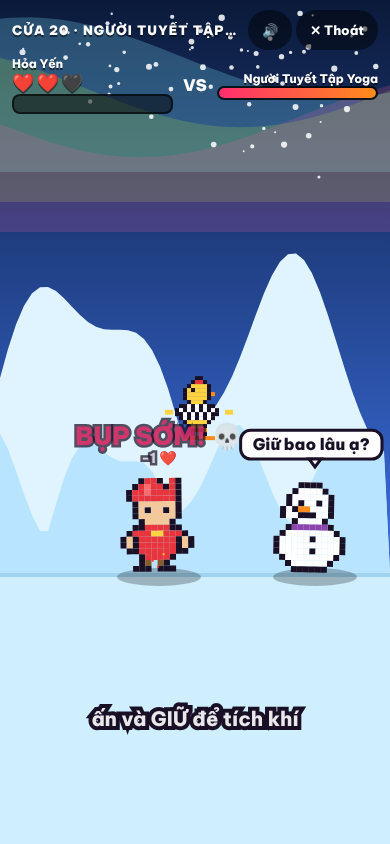
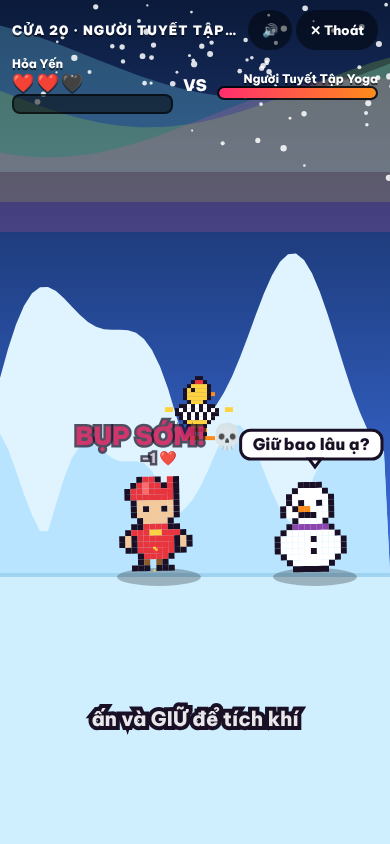
fix(fight): keep fighters inside the frame on short and landscape screens
The ground line now stays above the virtual pad (H - pad height), the
fight camera no longer sways or zooms at the edges, fighters are clamped
further from the sides (text sprites too), jumps carry their horizontal
velocity and land cleanly, jump height is lower, and the control hint
sits under the HUD instead of over the fighters. Sprites scale up a bit
on short screens.

Claude-Session: https://claude.ai/code/session_01UqXqDxYeGoWj4VXwpkBnn8

diff --git a/src/game.html b/src/game.html
@@ -254,8 +254,9 @@ body.zh{--font:'Be Vietnam Pro','PingFang SC','Hiragino Sans GB','Microsoft YaHe
   function gateName(n){ return T('gateName', { n: n, w: WORLDS[GATES[n - 1].w - 1].name }); }
   function pick(arr){ return arr[Math.floor(Math.random() * arr.length)]; }
 
+  var PAD_H = 150;   /* height of #pad incl. padding; the ground never sits under it */
   /* ---------- resize ---------- */
-  function resize(){ DPR = Math.min(2, window.devicePixelRatio || 1); W = window.innerWidth; H = window.innerHeight; cv.width = Math.floor(W * DPR); cv.height = Math.floor(H * DPR); ctx.setTransform(DPR, 0, 0, DPR, 0, 0); GY = Math.floor(H * (IMG_MODE() ? 0.76 : 0.68)); SC = Math.max(5, Math.min(11, Math.floor(Math.min(W / 64, H / 96)))); }
+  function resize(){ DPR = Math.min(2, window.devicePixelRatio || 1); W = window.innerWidth; H = window.innerHeight; cv.width = Math.floor(W * DPR); cv.height = Math.floor(H * DPR); ctx.setTransform(DPR, 0, 0, DPR, 0, 0); SC = Math.max(4, Math.min(11, Math.floor(Math.min(W / 64, H / 84)))); GY = Math.floor(H * (IMG_MODE() ? 0.76 : 0.68)); GY = Math.max(Math.floor(H * .5), Math.min(GY, H - PAD_H - SC * 2)); }   /* keep the ground above the virtual pad (short screens, landscape) */
   window.addEventListener('resize', resize); resize();
 
   /* ---------- title ---------- */
@@ -658,7 +659,7 @@ body.zh{--font:'Be Vietnam Pro','PingFang SC','Hiragino Sans GB','Microsoft YaHe
       if (!canAct(Hh, now) && !(air && Hh.st === 'jump')) continue;
       if (k === 'lt' || k === 'hv') { if (air) { if (Hh.st === 'jump') startAtk(Hh, 'air', now); } else startAtk(Hh, k === 'hv' ? (Hh.chain === 2 && now - Hh.chainT < 700 ? 'fin' : 'hv') : (Hh.chain === 1 && now - Hh.chainT < 600 ? 'lt2' : 'lt'), now); }
       else if (k === 'sp' && !air) { if (Hh.meter >= 100) startAtk(Hh, 'sup', now); else if (Hh.meter >= 50) startAtk(Hh, 'sp', now); else { AUDIO.sfx.buzzer(); fx.push({ t: now, x: Hh.x - SC * 7, y: GY - SC * 18, txt: '', sub: T('meterLow'), col: '#aab0c4' }); } }
-      else if (k === 'u' && !air) { Hh.st = 'jump'; Hh.vy = -SC * 1.55; Hh.y = -1; Hh.vx = (IN.r - IN.l) * SPD * 1.1; Hh.crouch = false; AUDIO.sfx.tapone(); }
+      else if (k === 'u' && !air) { Hh.st = 'jump'; Hh.vy = -SC * 1.4; Hh.y = -1; Hh.vx = (IN.r - IN.l) * SPD * 1.1; Hh.crouch = false; AUDIO.sfx.tapone(); }
     }
     if (Hh.st === 'jump' || Hh.st === 'atk' || Hh.st === 'hit' || Hh.st === 'down') return;
     if (Hh.y >= 0) Hh.face = E.x >= Hh.x ? 1 : -1;
@@ -679,7 +680,7 @@ body.zh{--font:'Be Vietnam Pro','PingFang SC','Hiragino Sans GB','Microsoft YaHe
     if (Hh.st === 'atk' && !Hh.feint && d < SC * 13 && Math.random() < ai.block) { ai.mode = 'block'; E.blockT = now; E.blockHeld = true; E.st = 'block'; ai.next = now + 380; return; }
     if (!inR) { var r0 = Math.random();
       if (r0 < .1) { ai.mode = 'idle'; ai.next = now + 250; }
-      else if (r0 < .1 + ai.jump && d < SC * 20 && d > SC * 11) { E.st = 'jump'; E.vy = -SC * 1.5; E.y = -1; E.vx = E.face * ai.spd * 1.3; ai.mode = 'idle'; ai.airAtk = Math.random() < .7; }
+      else if (r0 < .1 + ai.jump && d < SC * 20 && d > SC * 11) { E.st = 'jump'; E.vy = -SC * 1.4; E.y = -1; E.vx = E.face * ai.spd * 1.3; ai.mode = 'idle'; ai.airAtk = Math.random() < .7; }
       else { ai.mode = 'walk'; ai.dir = E.face; ai.next = now + 160; }
       return; }
     var r = Math.random();
@@ -689,7 +690,7 @@ body.zh{--font:'Be Vietnam Pro','PingFang SC','Hiragino Sans GB','Microsoft YaHe
     else { ai.mode = 'idle'; ai.next = now + 200; }
   }
   function aiAttack(step, now){ var E = B.E, ai = E.ai, d = step.d === '?' || !step.d ? ['L', 'R', 'U'][Math.floor(Math.random() * 3)] : step.d, feint = step.f ? true : Math.random() < ai.feint;
-    if (d === 'U' && E.y >= 0 && !feint) { E.st = 'jump'; E.vy = -SC * 1.5; E.y = -1; E.vx = E.face * ai.spd * 1.4; ai.airAtk = true; return; }
+    if (d === 'U' && E.y >= 0 && !feint) { E.st = 'jump'; E.vy = -SC * 1.4; E.y = -1; E.vx = E.face * ai.spd * 1.4; ai.airAtk = true; return; }
     var key = d === 'L' ? 'lt' : 'hv'; startAtk(E, key, now, feint); E.atk = Object.assign({}, ATK[key], { su: Math.round(ATK[key].su * ai.tel * (step.t || 1) * (key === 'lt' ? 2.6 : 1.6)), feintOf: d }); }
   function resolveHit(A, Tg, now){ var atk = A.atk; A.hitFlag = true; if (now < Tg.invUntil) return;
     var tx = Tg.x, blocking = Tg.blockHeld && (Tg.st === 'block' || Tg.st === 'idle' || Tg.st === 'walk' || Tg.st === 'crouch') && Tg.y >= 0;
@@ -725,14 +726,14 @@ body.zh{--font:'Be Vietnam Pro','PingFang SC','Hiragino Sans GB','Microsoft YaHe
           if (ph >= a.su && ph < a.su + a.ac && !F.hitFlag) { var Tg = F === Hh ? E : Hh, reach = a.rg * SC, dd = Math.abs(Tg.x - F.x), facing = (Tg.x - F.x) * F.face > 0, vert = Math.abs(Tg.y - F.y) < SC * 9 || a.key === 'air' || F.atkKey === 'air'; if (dd <= reach && facing && vert) resolveHit(F, Tg, now); }
           if (ph >= a.su + a.ac + a.re) { F.st = F.y < 0 ? 'jump' : 'idle'; F.atk = null; if (F.chain && now - F.chainT > 700) F.chain = 0; } } }
       /* jump / gravity */
-      if (F.y < 0 || F.vy) { F.y += F.vy * dt; F.vy += GRAV * dt; if (F.y >= 0) { F.y = 0; F.vy = 0; if (F.st === 'jump' || (F.st === 'atk' && F.atkKey === 'air')) { F.st = 'idle'; F.atk = null; } } }
+      if (F.y < 0 || F.vy) { F.y += F.vy * dt; F.vy += GRAV * dt; if (F.y >= 0) { F.y = 0; F.vy = 0; if (F.st === 'jump' || (F.st === 'atk' && F.atkKey === 'air')) { F.st = 'idle'; F.atk = null; F.vx = 0; } } }
       if (F === E && E.st === 'jump' && E.ai.airAtk && E.vy > -SC * .3 && E.y < -SC * 3) { E.ai.airAtk = false; startAtk(E, 'air', now); E.atk = Object.assign({}, ATK.air, { su: 60 }); }
       /* knockback / hitstun / knockdown */
-      if (F.vx && F.st !== 'walk' && F.st !== 'jump') { F.x += F.vx * dt; F.vx *= Math.pow(.82, dt); if (Math.abs(F.vx) < .05) F.vx = 0; }
+      if (F.vx && F.st !== 'walk') { F.x += F.vx * dt; if (F.y >= 0) { F.vx *= Math.pow(.82, dt); if (Math.abs(F.vx) < .05) F.vx = 0; } }
       if (F.st === 'hit' && now >= F.hitUntil) { F.st = 'idle'; }
       if (F.st === 'down' && F.y >= 0 && now >= F.downUntil) { F.st = 'idle'; F.invUntil = now + 350; }
       if (F.st === 'block' && F !== Hh && now >= F.hitUntil && !F.blockHeld) F.st = 'idle';
-      F.x = Math.max(SC * 5, Math.min(W - SC * 5, F.x));
+      F.x = Math.max(SC * 6.5, Math.min(W - SC * 6.5, F.x));
     }
     /* pushbox */
     var dx = E.x - Hh.x; if (Math.abs(dx) < MIN && Hh.y >= 0 && E.y >= 0) { var push = (MIN - Math.abs(dx)) / 2, sgn = dx >= 0 ? 1 : -1; Hh.x -= push * sgn; E.x += push * sgn; }
@@ -919,8 +920,8 @@ body.zh{--font:'Be Vietnam Pro','PingFang SC','Hiragino Sans GB','Microsoft YaHe
     if (B.fight && B.H) { hx = B.H.x - SC * 7; ex = B.E.x - SC * 7; }
     B.heroX = hx; B.enemyX = ex;
     var shake = B.shake > 0 ? (Math.random() - .5) * 12 * B.shake : 0; B.shake = Math.max(0, B.shake - .06 * dt);
-    B.zoom = B.zoom * Math.pow(.86, dt); var zf = (1 + Math.abs(B.zoom) * .035) * (IMG_MODE() ? 1.015 + Math.sin(t * .45) * .015 : 1);
-    ctx.save(); ctx.translate(W / 2, GY); ctx.scale(zf, zf); ctx.translate(-W / 2, -GY); ctx.translate(shake + (IMG_MODE() ? Math.sin(t * .3) * SC * .6 : 0), shake * .5);
+    B.zoom = B.zoom * Math.pow(.86, dt); var zf = (1 + Math.abs(B.zoom) * .035) * (IMG_MODE() && !B.fight ? 1.015 + Math.sin(t * .45) * .015 : 1);
+    ctx.save(); ctx.translate(W / 2, GY); ctx.scale(zf, zf); ctx.translate(-W / 2, -GY); ctx.translate(shake + (IMG_MODE() && !B.fight ? Math.sin(t * .3) * SC * .6 : 0), shake * .5);
     /* aura while waiting; much bigger while holding */
     var auraI = st === 'wait' ? Math.min(1, (now - B.t0) / 1200) : st === 'go' ? 1 : 0;
     if (B.holding) auraI = Math.min(1.8, 1 + (now - B.holdT) / 900);
@@ -1004,14 +1005,14 @@ body.zh{--font:'Be Vietnam Pro','PingFang SC','Hiragino Sans GB','Microsoft YaHe
     else if (st === 'count') { ctx.fillStyle = '#ffd23f'; ctx.strokeText(String(B.cntN), W / 2, H * .86); ctx.fillText(String(B.cntN), W / 2, H * .86); }
     else if (st === 'fakesig' && B.tut) { ctx.fillStyle = '#ff2e6e'; ctx.font = '900 ' + Math.round(Math.min(W, H) * .12) + 'px ' + FF(); ctx.strokeText(T('tutBig'), W / 2, H * .86); ctx.fillText(T('tutBig'), W / 2, H * .86); ctx.font = '800 ' + Math.round(Math.min(W, H) * .045) + 'px ' + FF(); ctx.fillStyle = '#fff'; ctx.strokeText(T('tutHint'), W / 2, H * .92); ctx.fillText(T('tutHint'), W / 2, H * .92); }
     else if (st === 'fakesig') { var dc = B.mech === 'reverse' ? T('cueRevFreeze') : T('cueDont'); if (B.mech === 'reverse') ctx.font = '900 ' + Math.round(Math.min(W, H) * .11) + 'px ' + FF(); ctx.fillStyle = '#ff2e6e'; ctx.strokeText(dc, W / 2, H * .86); ctx.fillText(dc, W / 2, H * .86); }
-    else if (st === 'wait' || st === 'ready') { ctx.fillStyle = 'rgba(255,255,255,.9)'; ctx.font = '800 ' + Math.round(Math.min(W, H) * .05) + 'px ' + FF(); var hint = B.fight ? (B.state === 'count' ? T('hintWait') : B.meter >= 100 ? T('meterFull') : B.meter >= 50 ? T('hintSpecial') : now - B.rT0 < 8000 && B.n <= 3 ? T('padHint') : '') : B.mech === 'hold' ? (B.holding ? T('hintHolding') : T('hintHold')) : B.mech === 'double' ? T('hintDouble') : B.mech === 'spot' ? T('hintSpot') : B.mech === 'reverse' ? T('hintRev') : B.mech === 'count' ? T('hintCount') : (gm ? T('hintGhost', { ms: gm }) : (B.holding ? T('hintBet') : T('hintWait'))); if (hint) { var hw = ctx.measureText(hint).width; if (hw > W - 24) ctx.font = '800 ' + Math.round(Math.min(W, H) * .05 * (W - 24) / hw) + 'px ' + FF(); var hy = B.fight ? GY + SC * 4.5 : H * .86; ctx.strokeText(hint, W / 2, hy); ctx.fillText(hint, W / 2, hy); } }
+    else if (st === 'wait' || st === 'ready') { ctx.fillStyle = 'rgba(255,255,255,.9)'; ctx.font = '800 ' + Math.round(Math.min(W, H) * .05) + 'px ' + FF(); var hint = B.fight ? (B.state === 'count' ? T('hintWait') : B.meter >= 100 ? T('meterFull') : B.meter >= 50 ? T('hintSpecial') : now - B.rT0 < 8000 && B.n <= 3 ? T('padHint') : '') : B.mech === 'hold' ? (B.holding ? T('hintHolding') : T('hintHold')) : B.mech === 'double' ? T('hintDouble') : B.mech === 'spot' ? T('hintSpot') : B.mech === 'reverse' ? T('hintRev') : B.mech === 'count' ? T('hintCount') : (gm ? T('hintGhost', { ms: gm }) : (B.holding ? T('hintBet') : T('hintWait'))); if (hint) { var hw = ctx.measureText(hint).width; if (hw > W - 24) ctx.font = '800 ' + Math.round(Math.min(W, H) * .05 * (W - 24) / hw) + 'px ' + FF(); var hy = B.fight ? Math.max(104, Math.round(H * .13)) : H * .86; ctx.strokeText(hint, W / 2, hy); ctx.fillText(hint, W / 2, hy); } }
     ctx.textAlign = 'left';
     if (B.flash > 0) { ctx.fillStyle = 'rgba(' + B.flashCol + ',' + (B.flash * .55) + ')'; ctx.fillRect(0, 0, W, H); B.flash -= .08 * dt; }
   }
   function drawActor(name, x, y, sc, flip, swap, a){
     var sz = spriteSize(name), w = sz.w * sc, cx = x + w / 2, im = a.key && typeof ASSETS !== 'undefined' ? ASSETS.sprite(a.key, a.pose) : null;
     var tx = cx + (a.dx || 0), ih = sc * 16, iw = im ? im.width * ih / im.height : 0;
-    if (im) tx = Math.max(6 + iw / 2, Math.min(W - 6 - iw / 2, tx));
+    if (im) tx = Math.max(6 + iw / 2, Math.min(W - 6 - iw / 2, tx)); else if (B && B.fight) tx = Math.max(4 + w / 2, Math.min(W - 4 - w / 2, tx));
     ctx.save(); ctx.translate(tx, y + (a.dy || 0)); ctx.rotate(a.rot || 0); ctx.scale((a.sx || 1) * (a.mirror ? -1 : 1), a.sy || 1);
     if (im) { var src = swap && swap.k === '#fff' ? tintImg(im, '#fff') : im; ctx.drawImage(src, -iw / 2, -ih, iw, ih); }
     else drawSprite(ctx, name, -w / 2, 0, sc, flip, swap);

diff --git a/public/game.js b/public/game.js
@@ -51,8 +51,9 @@
   function gateName(n){ return T('gateName', { n: n, w: WORLDS[GATES[n - 1].w - 1].name }); }
   function pick(arr){ return arr[Math.floor(Math.random() * arr.length)]; }
 
+  var PAD_H = 150;   /* height of #pad incl. padding; the ground never sits under it */
   /* ---------- resize ---------- */
-  function resize(){ DPR = Math.min(2, window.devicePixelRatio || 1); W = window.innerWidth; H = window.innerHeight; cv.width = Math.floor(W * DPR); cv.height = Math.floor(H * DPR); ctx.setTransform(DPR, 0, 0, DPR, 0, 0); GY = Math.floor(H * (IMG_MODE() ? 0.76 : 0.68)); SC = Math.max(5, Math.min(11, Math.floor(Math.min(W / 64, H / 96)))); }
+  function resize(){ DPR = Math.min(2, window.devicePixelRatio || 1); W = window.innerWidth; H = window.innerHeight; cv.width = Math.floor(W * DPR); cv.height = Math.floor(H * DPR); ctx.setTransform(DPR, 0, 0, DPR, 0, 0); SC = Math.max(4, Math.min(11, Math.floor(Math.min(W / 64, H / 84)))); GY = Math.floor(H * (IMG_MODE() ? 0.76 : 0.68)); GY = Math.max(Math.floor(H * .5), Math.min(GY, H - PAD_H - SC * 2)); }   /* keep the ground above the virtual pad (short screens, landscape) */
   window.addEventListener('resize', resize); resize();
 
   /* ---------- title ---------- */
@@ -455,7 +456,7 @@
       if (!canAct(Hh, now) && !(air && Hh.st === 'jump')) continue;
       if (k === 'lt' || k === 'hv') { if (air) { if (Hh.st === 'jump') startAtk(Hh, 'air', now); } else startAtk(Hh, k === 'hv' ? (Hh.chain === 2 && now - Hh.chainT < 700 ? 'fin' : 'hv') : (Hh.chain === 1 && now - Hh.chainT < 600 ? 'lt2' : 'lt'), now); }
       else if (k === 'sp' && !air) { if (Hh.meter >= 100) startAtk(Hh, 'sup', now); else if (Hh.meter >= 50) startAtk(Hh, 'sp', now); else { AUDIO.sfx.buzzer(); fx.push({ t: now, x: Hh.x - SC * 7, y: GY - SC * 18, txt: '', sub: T('meterLow'), col: '#aab0c4' }); } }
-      else if (k === 'u' && !air) { Hh.st = 'jump'; Hh.vy = -SC * 1.55; Hh.y = -1; Hh.vx = (IN.r - IN.l) * SPD * 1.1; Hh.crouch = false; AUDIO.sfx.tapone(); }
+      else if (k === 'u' && !air) { Hh.st = 'jump'; Hh.vy = -SC * 1.4; Hh.y = -1; Hh.vx = (IN.r - IN.l) * SPD * 1.1; Hh.crouch = false; AUDIO.sfx.tapone(); }
     }
     if (Hh.st === 'jump' || Hh.st === 'atk' || Hh.st === 'hit' || Hh.st === 'down') return;
     if (Hh.y >= 0) Hh.face = E.x >= Hh.x ? 1 : -1;
@@ -476,7 +477,7 @@
     if (Hh.st === 'atk' && !Hh.feint && d < SC * 13 && Math.random() < ai.block) { ai.mode = 'block'; E.blockT = now; E.blockHeld = true; E.st = 'block'; ai.next = now + 380; return; }
     if (!inR) { var r0 = Math.random();
       if (r0 < .1) { ai.mode = 'idle'; ai.next = now + 250; }
-      else if (r0 < .1 + ai.jump && d < SC * 20 && d > SC * 11) { E.st = 'jump'; E.vy = -SC * 1.5; E.y = -1; E.vx = E.face * ai.spd * 1.3; ai.mode = 'idle'; ai.airAtk = Math.random() < .7; }
+      else if (r0 < .1 + ai.jump && d < SC * 20 && d > SC * 11) { E.st = 'jump'; E.vy = -SC * 1.4; E.y = -1; E.vx = E.face * ai.spd * 1.3; ai.mode = 'idle'; ai.airAtk = Math.random() < .7; }
       else { ai.mode = 'walk'; ai.dir = E.face; ai.next = now + 160; }
       return; }
     var r = Math.random();
@@ -486,7 +487,7 @@
     else { ai.mode = 'idle'; ai.next = now + 200; }
   }
   function aiAttack(step, now){ var E = B.E, ai = E.ai, d = step.d === '?' || !step.d ? ['L', 'R', 'U'][Math.floor(Math.random() * 3)] : step.d, feint = step.f ? true : Math.random() < ai.feint;
-    if (d === 'U' && E.y >= 0 && !feint) { E.st = 'jump'; E.vy = -SC * 1.5; E.y = -1; E.vx = E.face * ai.spd * 1.4; ai.airAtk = true; return; }
+    if (d === 'U' && E.y >= 0 && !feint) { E.st = 'jump'; E.vy = -SC * 1.4; E.y = -1; E.vx = E.face * ai.spd * 1.4; ai.airAtk = true; return; }
     var key = d === 'L' ? 'lt' : 'hv'; startAtk(E, key, now, feint); E.atk = Object.assign({}, ATK[key], { su: Math.round(ATK[key].su * ai.tel * (step.t || 1) * (key === 'lt' ? 2.6 : 1.6)), feintOf: d }); }
   function resolveHit(A, Tg, now){ var atk = A.atk; A.hitFlag = true; if (now < Tg.invUntil) return;
     var tx = Tg.x, blocking = Tg.blockHeld && (Tg.st === 'block' || Tg.st === 'idle' || Tg.st === 'walk' || Tg.st === 'crouch') && Tg.y >= 0;
@@ -522,14 +523,14 @@
           if (ph >= a.su && ph < a.su + a.ac && !F.hitFlag) { var Tg = F === Hh ? E : Hh, reach = a.rg * SC, dd = Math.abs(Tg.x - F.x), facing = (Tg.x - F.x) * F.face > 0, vert = Math.abs(Tg.y - F.y) < SC * 9 || a.key === 'air' || F.atkKey === 'air'; if (dd <= reach && facing && vert) resolveHit(F, Tg, now); }
           if (ph >= a.su + a.ac + a.re) { F.st = F.y < 0 ? 'jump' : 'idle'; F.atk = null; if (F.chain && now - F.chainT > 700) F.chain = 0; } } }
       /* jump / gravity */
-      if (F.y < 0 || F.vy) { F.y += F.vy * dt; F.vy += GRAV * dt; if (F.y >= 0) { F.y = 0; F.vy = 0; if (F.st === 'jump' || (F.st === 'atk' && F.atkKey === 'air')) { F.st = 'idle'; F.atk = null; } } }
+      if (F.y < 0 || F.vy) { F.y += F.vy * dt; F.vy += GRAV * dt; if (F.y >= 0) { F.y = 0; F.vy = 0; if (F.st === 'jump' || (F.st === 'atk' && F.atkKey === 'air')) { F.st = 'idle'; F.atk = null; F.vx = 0; } } }
       if (F === E && E.st === 'jump' && E.ai.airAtk && E.vy > -SC * .3 && E.y < -SC * 3) { E.ai.airAtk = false; startAtk(E, 'air', now); E.atk = Object.assign({}, ATK.air, { su: 60 }); }
       /* knockback / hitstun / knockdown */
-      if (F.vx && F.st !== 'walk' && F.st !== 'jump') { F.x += F.vx * dt; F.vx *= Math.pow(.82, dt); if (Math.abs(F.vx) < .05) F.vx = 0; }
+      if (F.vx && F.st !== 'walk') { F.x += F.vx * dt; if (F.y >= 0) { F.vx *= Math.pow(.82, dt); if (Math.abs(F.vx) < .05) F.vx = 0; } }
       if (F.st === 'hit' && now >= F.hitUntil) { F.st = 'idle'; }
       if (F.st === 'down' && F.y >= 0 && now >= F.downUntil) { F.st = 'idle'; F.invUntil = now + 350; }
       if (F.st === 'block' && F !== Hh && now >= F.hitUntil && !F.blockHeld) F.st = 'idle';
-      F.x = Math.max(SC * 5, Math.min(W - SC * 5, F.x));
+      F.x = Math.max(SC * 6.5, Math.min(W - SC * 6.5, F.x));
     }
     /* pushbox */
     var dx = E.x - Hh.x; if (Math.abs(dx) < MIN && Hh.y >= 0 && E.y >= 0) { var push = (MIN - Math.abs(dx)) / 2, sgn = dx >= 0 ? 1 : -1; Hh.x -= push * sgn; E.x += push * sgn; }
@@ -716,8 +717,8 @@
     if (B.fight && B.H) { hx = B.H.x - SC * 7; ex = B.E.x - SC * 7; }
     B.heroX = hx; B.enemyX = ex;
     var shake = B.shake > 0 ? (Math.random() - .5) * 12 * B.shake : 0; B.shake = Math.max(0, B.shake - .06 * dt);
-    B.zoom = B.zoom * Math.pow(.86, dt); var zf = (1 + Math.abs(B.zoom) * .035) * (IMG_MODE() ? 1.015 + Math.sin(t * .45) * .015 : 1);
-    ctx.save(); ctx.translate(W / 2, GY); ctx.scale(zf, zf); ctx.translate(-W / 2, -GY); ctx.translate(shake + (IMG_MODE() ? Math.sin(t * .3) * SC * .6 : 0), shake * .5);
+    B.zoom = B.zoom * Math.pow(.86, dt); var zf = (1 + Math.abs(B.zoom) * .035) * (IMG_MODE() && !B.fight ? 1.015 + Math.sin(t * .45) * .015 : 1);
+    ctx.save(); ctx.translate(W / 2, GY); ctx.scale(zf, zf); ctx.translate(-W / 2, -GY); ctx.translate(shake + (IMG_MODE() && !B.fight ? Math.sin(t * .3) * SC * .6 : 0), shake * .5);
     /* aura while waiting; much bigger while holding */
     var auraI = st === 'wait' ? Math.min(1, (now - B.t0) / 1200) : st === 'go' ? 1 : 0;
     if (B.holding) auraI = Math.min(1.8, 1 + (now - B.holdT) / 900);
@@ -801,14 +802,14 @@
     else if (st === 'count') { ctx.fillStyle = '#ffd23f'; ctx.strokeText(String(B.cntN), W / 2, H * .86); ctx.fillText(String(B.cntN), W / 2, H * .86); }
     else if (st === 'fakesig' && B.tut) { ctx.fillStyle = '#ff2e6e'; ctx.font = '900 ' + Math.round(Math.min(W, H) * .12) + 'px ' + FF(); ctx.strokeText(T('tutBig'), W / 2, H * .86); ctx.fillText(T('tutBig'), W / 2, H * .86); ctx.font = '800 ' + Math.round(Math.min(W, H) * .045) + 'px ' + FF(); ctx.fillStyle = '#fff'; ctx.strokeText(T('tutHint'), W / 2, H * .92); ctx.fillText(T('tutHint'), W / 2, H * .92); }
     else if (st === 'fakesig') { var dc = B.mech === 'reverse' ? T('cueRevFreeze') : T('cueDont'); if (B.mech === 'reverse') ctx.font = '900 ' + Math.round(Math.min(W, H) * .11) + 'px ' + FF(); ctx.fillStyle = '#ff2e6e'; ctx.strokeText(dc, W / 2, H * .86); ctx.fillText(dc, W / 2, H * .86); }
-    else if (st === 'wait' || st === 'ready') { ctx.fillStyle = 'rgba(255,255,255,.9)'; ctx.font = '800 ' + Math.round(Math.min(W, H) * .05) + 'px ' + FF(); var hint = B.fight ? (B.state === 'count' ? T('hintWait') : B.meter >= 100 ? T('meterFull') : B.meter >= 50 ? T('hintSpecial') : now - B.rT0 < 8000 && B.n <= 3 ? T('padHint') : '') : B.mech === 'hold' ? (B.holding ? T('hintHolding') : T('hintHold')) : B.mech === 'double' ? T('hintDouble') : B.mech === 'spot' ? T('hintSpot') : B.mech === 'reverse' ? T('hintRev') : B.mech === 'count' ? T('hintCount') : (gm ? T('hintGhost', { ms: gm }) : (B.holding ? T('hintBet') : T('hintWait'))); if (hint) { var hw = ctx.measureText(hint).width; if (hw > W - 24) ctx.font = '800 ' + Math.round(Math.min(W, H) * .05 * (W - 24) / hw) + 'px ' + FF(); var hy = B.fight ? GY + SC * 4.5 : H * .86; ctx.strokeText(hint, W / 2, hy); ctx.fillText(hint, W / 2, hy); } }
+    else if (st === 'wait' || st === 'ready') { ctx.fillStyle = 'rgba(255,255,255,.9)'; ctx.font = '800 ' + Math.round(Math.min(W, H) * .05) + 'px ' + FF(); var hint = B.fight ? (B.state === 'count' ? T('hintWait') : B.meter >= 100 ? T('meterFull') : B.meter >= 50 ? T('hintSpecial') : now - B.rT0 < 8000 && B.n <= 3 ? T('padHint') : '') : B.mech === 'hold' ? (B.holding ? T('hintHolding') : T('hintHold')) : B.mech === 'double' ? T('hintDouble') : B.mech === 'spot' ? T('hintSpot') : B.mech === 'reverse' ? T('hintRev') : B.mech === 'count' ? T('hintCount') : (gm ? T('hintGhost', { ms: gm }) : (B.holding ? T('hintBet') : T('hintWait'))); if (hint) { var hw = ctx.measureText(hint).width; if (hw > W - 24) ctx.font = '800 ' + Math.round(Math.min(W, H) * .05 * (W - 24) / hw) + 'px ' + FF(); var hy = B.fight ? Math.max(104, Math.round(H * .13)) : H * .86; ctx.strokeText(hint, W / 2, hy); ctx.fillText(hint, W / 2, hy); } }
     ctx.textAlign = 'left';
     if (B.flash > 0) { ctx.fillStyle = 'rgba(' + B.flashCol + ',' + (B.flash * .55) + ')'; ctx.fillRect(0, 0, W, H); B.flash -= .08 * dt; }
   }
   function drawActor(name, x, y, sc, flip, swap, a){
     var sz = spriteSize(name), w = sz.w * sc, cx = x + w / 2, im = a.key && typeof ASSETS !== 'undefined' ? ASSETS.sprite(a.key, a.pose) : null;
     var tx = cx + (a.dx || 0), ih = sc * 16, iw = im ? im.width * ih / im.height : 0;
-    if (im) tx = Math.max(6 + iw / 2, Math.min(W - 6 - iw / 2, tx));
+    if (im) tx = Math.max(6 + iw / 2, Math.min(W - 6 - iw / 2, tx)); else if (B && B.fight) tx = Math.max(4 + w / 2, Math.min(W - 4 - w / 2, tx));
     ctx.save(); ctx.translate(tx, y + (a.dy || 0)); ctx.rotate(a.rot || 0); ctx.scale((a.sx || 1) * (a.mirror ? -1 : 1), a.sy || 1);
     if (im) { var src = swap && swap.k === '#fff' ? tintImg(im, '#fff') : im; ctx.drawImage(src, -iw / 2, -ih, iw, ih); }
     else drawSprite(ctx, name, -w / 2, 0, sc, flip, swap);

diff --git a/public/preview/game.js b/public/preview/game.js
@@ -51,8 +51,9 @@
   function gateName(n){ return T('gateName', { n: n, w: WORLDS[GATES[n - 1].w - 1].name }); }
   function pick(arr){ return arr[Math.floor(Math.random() * arr.length)]; }
 
+  var PAD_H = 150;   /* height of #pad incl. padding; the ground never sits under it */
   /* ---------- resize ---------- */
-  function resize(){ DPR = Math.min(2, window.devicePixelRatio || 1); W = window.innerWidth; H = window.innerHeight; cv.width = Math.floor(W * DPR); cv.height = Math.floor(H * DPR); ctx.setTransform(DPR, 0, 0, DPR, 0, 0); GY = Math.floor(H * (IMG_MODE() ? 0.76 : 0.68)); SC = Math.max(5, Math.min(11, Math.floor(Math.min(W / 64, H / 96)))); }
+  function resize(){ DPR = Math.min(2, window.devicePixelRatio || 1); W = window.innerWidth; H = window.innerHeight; cv.width = Math.floor(W * DPR); cv.height = Math.floor(H * DPR); ctx.setTransform(DPR, 0, 0, DPR, 0, 0); SC = Math.max(4, Math.min(11, Math.floor(Math.min(W / 64, H / 84)))); GY = Math.floor(H * (IMG_MODE() ? 0.76 : 0.68)); GY = Math.max(Math.floor(H * .5), Math.min(GY, H - PAD_H - SC * 2)); }   /* keep the ground above the virtual pad (short screens, landscape) */
   window.addEventListener('resize', resize); resize();
 
   /* ---------- title ---------- */
@@ -455,7 +456,7 @@
       if (!canAct(Hh, now) && !(air && Hh.st === 'jump')) continue;
       if (k === 'lt' || k === 'hv') { if (air) { if (Hh.st === 'jump') startAtk(Hh, 'air', now); } else startAtk(Hh, k === 'hv' ? (Hh.chain === 2 && now - Hh.chainT < 700 ? 'fin' : 'hv') : (Hh.chain === 1 && now - Hh.chainT < 600 ? 'lt2' : 'lt'), now); }
       else if (k === 'sp' && !air) { if (Hh.meter >= 100) startAtk(Hh, 'sup', now); else if (Hh.meter >= 50) startAtk(Hh, 'sp', now); else { AUDIO.sfx.buzzer(); fx.push({ t: now, x: Hh.x - SC * 7, y: GY - SC * 18, txt: '', sub: T('meterLow'), col: '#aab0c4' }); } }
-      else if (k === 'u' && !air) { Hh.st = 'jump'; Hh.vy = -SC * 1.55; Hh.y = -1; Hh.vx = (IN.r - IN.l) * SPD * 1.1; Hh.crouch = false; AUDIO.sfx.tapone(); }
+      else if (k === 'u' && !air) { Hh.st = 'jump'; Hh.vy = -SC * 1.4; Hh.y = -1; Hh.vx = (IN.r - IN.l) * SPD * 1.1; Hh.crouch = false; AUDIO.sfx.tapone(); }
     }
     if (Hh.st === 'jump' || Hh.st === 'atk' || Hh.st === 'hit' || Hh.st === 'down') return;
     if (Hh.y >= 0) Hh.face = E.x >= Hh.x ? 1 : -1;
@@ -476,7 +477,7 @@
     if (Hh.st === 'atk' && !Hh.feint && d < SC * 13 && Math.random() < ai.block) { ai.mode = 'block'; E.blockT = now; E.blockHeld = true; E.st = 'block'; ai.next = now + 380; return; }
     if (!inR) { var r0 = Math.random();
       if (r0 < .1) { ai.mode = 'idle'; ai.next = now + 250; }
-      else if (r0 < .1 + ai.jump && d < SC * 20 && d > SC * 11) { E.st = 'jump'; E.vy = -SC * 1.5; E.y = -1; E.vx = E.face * ai.spd * 1.3; ai.mode = 'idle'; ai.airAtk = Math.random() < .7; }
+      else if (r0 < .1 + ai.jump && d < SC * 20 && d > SC * 11) { E.st = 'jump'; E.vy = -SC * 1.4; E.y = -1; E.vx = E.face * ai.spd * 1.3; ai.mode = 'idle'; ai.airAtk = Math.random() < .7; }
       else { ai.mode = 'walk'; ai.dir = E.face; ai.next = now + 160; }
       return; }
     var r = Math.random();
@@ -486,7 +487,7 @@
     else { ai.mode = 'idle'; ai.next = now + 200; }
   }
   function aiAttack(step, now){ var E = B.E, ai = E.ai, d = step.d === '?' || !step.d ? ['L', 'R', 'U'][Math.floor(Math.random() * 3)] : step.d, feint = step.f ? true : Math.random() < ai.feint;
-    if (d === 'U' && E.y >= 0 && !feint) { E.st = 'jump'; E.vy = -SC * 1.5; E.y = -1; E.vx = E.face * ai.spd * 1.4; ai.airAtk = true; return; }
+    if (d === 'U' && E.y >= 0 && !feint) { E.st = 'jump'; E.vy = -SC * 1.4; E.y = -1; E.vx = E.face * ai.spd * 1.4; ai.airAtk = true; return; }
     var key = d === 'L' ? 'lt' : 'hv'; startAtk(E, key, now, feint); E.atk = Object.assign({}, ATK[key], { su: Math.round(ATK[key].su * ai.tel * (step.t || 1) * (key === 'lt' ? 2.6 : 1.6)), feintOf: d }); }
   function resolveHit(A, Tg, now){ var atk = A.atk; A.hitFlag = true; if (now < Tg.invUntil) return;
     var tx = Tg.x, blocking = Tg.blockHeld && (Tg.st === 'block' || Tg.st === 'idle' || Tg.st === 'walk' || Tg.st === 'crouch') && Tg.y >= 0;
@@ -522,14 +523,14 @@
           if (ph >= a.su && ph < a.su + a.ac && !F.hitFlag) { var Tg = F === Hh ? E : Hh, reach = a.rg * SC, dd = Math.abs(Tg.x - F.x), facing = (Tg.x - F.x) * F.face > 0, vert = Math.abs(Tg.y - F.y) < SC * 9 || a.key === 'air' || F.atkKey === 'air'; if (dd <= reach && facing && vert) resolveHit(F, Tg, now); }
           if (ph >= a.su + a.ac + a.re) { F.st = F.y < 0 ? 'jump' : 'idle'; F.atk = null; if (F.chain && now - F.chainT > 700) F.chain = 0; } } }
       /* jump / gravity */
-      if (F.y < 0 || F.vy) { F.y += F.vy * dt; F.vy += GRAV * dt; if (F.y >= 0) { F.y = 0; F.vy = 0; if (F.st === 'jump' || (F.st === 'atk' && F.atkKey === 'air')) { F.st = 'idle'; F.atk = null; } } }
+      if (F.y < 0 || F.vy) { F.y += F.vy * dt; F.vy += GRAV * dt; if (F.y >= 0) { F.y = 0; F.vy = 0; if (F.st === 'jump' || (F.st === 'atk' && F.atkKey === 'air')) { F.st = 'idle'; F.atk = null; F.vx = 0; } } }
       if (F === E && E.st === 'jump' && E.ai.airAtk && E.vy > -SC * .3 && E.y < -SC * 3) { E.ai.airAtk = false; startAtk(E, 'air', now); E.atk = Object.assign({}, ATK.air, { su: 60 }); }
       /* knockback / hitstun / knockdown */
-      if (F.vx && F.st !== 'walk' && F.st !== 'jump') { F.x += F.vx * dt; F.vx *= Math.pow(.82, dt); if (Math.abs(F.vx) < .05) F.vx = 0; }
+      if (F.vx && F.st !== 'walk') { F.x += F.vx * dt; if (F.y >= 0) { F.vx *= Math.pow(.82, dt); if (Math.abs(F.vx) < .05) F.vx = 0; } }
       if (F.st === 'hit' && now >= F.hitUntil) { F.st = 'idle'; }
       if (F.st === 'down' && F.y >= 0 && now >= F.downUntil) { F.st = 'idle'; F.invUntil = now + 350; }
       if (F.st === 'block' && F !== Hh && now >= F.hitUntil && !F.blockHeld) F.st = 'idle';
-      F.x = Math.max(SC * 5, Math.min(W - SC * 5, F.x));
+      F.x = Math.max(SC * 6.5, Math.min(W - SC * 6.5, F.x));
     }
     /* pushbox */
     var dx = E.x - Hh.x; if (Math.abs(dx) < MIN && Hh.y >= 0 && E.y >= 0) { var push = (MIN - Math.abs(dx)) / 2, sgn = dx >= 0 ? 1 : -1; Hh.x -= push * sgn; E.x += push * sgn; }
@@ -716,8 +717,8 @@
     if (B.fight && B.H) { hx = B.H.x - SC * 7; ex = B.E.x - SC * 7; }
     B.heroX = hx; B.enemyX = ex;
     var shake = B.shake > 0 ? (Math.random() - .5) * 12 * B.shake : 0; B.shake = Math.max(0, B.shake - .06 * dt);
-    B.zoom = B.zoom * Math.pow(.86, dt); var zf = (1 + Math.abs(B.zoom) * .035) * (IMG_MODE() ? 1.015 + Math.sin(t * .45) * .015 : 1);
-    ctx.save(); ctx.translate(W / 2, GY); ctx.scale(zf, zf); ctx.translate(-W / 2, -GY); ctx.translate(shake + (IMG_MODE() ? Math.sin(t * .3) * SC * .6 : 0), shake * .5);
+    B.zoom = B.zoom * Math.pow(.86, dt); var zf = (1 + Math.abs(B.zoom) * .035) * (IMG_MODE() && !B.fight ? 1.015 + Math.sin(t * .45) * .015 : 1);
+    ctx.save(); ctx.translate(W / 2, GY); ctx.scale(zf, zf); ctx.translate(-W / 2, -GY); ctx.translate(shake + (IMG_MODE() && !B.fight ? Math.sin(t * .3) * SC * .6 : 0), shake * .5);
     /* aura while waiting; much bigger while holding */
     var auraI = st === 'wait' ? Math.min(1, (now - B.t0) / 1200) : st === 'go' ? 1 : 0;
     if (B.holding) auraI = Math.min(1.8, 1 + (now - B.holdT) / 900);
@@ -801,14 +802,14 @@
     else if (st === 'count') { ctx.fillStyle = '#ffd23f'; ctx.strokeText(String(B.cntN), W / 2, H * .86); ctx.fillText(String(B.cntN), W / 2, H * .86); }
     else if (st === 'fakesig' && B.tut) { ctx.fillStyle = '#ff2e6e'; ctx.font = '900 ' + Math.round(Math.min(W, H) * .12) + 'px ' + FF(); ctx.strokeText(T('tutBig'), W / 2, H * .86); ctx.fillText(T('tutBig'), W / 2, H * .86); ctx.font = '800 ' + Math.round(Math.min(W, H) * .045) + 'px ' + FF(); ctx.fillStyle = '#fff'; ctx.strokeText(T('tutHint'), W / 2, H * .92); ctx.fillText(T('tutHint'), W / 2, H * .92); }
     else if (st === 'fakesig') { var dc = B.mech === 'reverse' ? T('cueRevFreeze') : T('cueDont'); if (B.mech === 'reverse') ctx.font = '900 ' + Math.round(Math.min(W, H) * .11) + 'px ' + FF(); ctx.fillStyle = '#ff2e6e'; ctx.strokeText(dc, W / 2, H * .86); ctx.fillText(dc, W / 2, H * .86); }
-    else if (st === 'wait' || st === 'ready') { ctx.fillStyle = 'rgba(255,255,255,.9)'; ctx.font = '800 ' + Math.round(Math.min(W, H) * .05) + 'px ' + FF(); var hint = B.fight ? (B.state === 'count' ? T('hintWait') : B.meter >= 100 ? T('meterFull') : B.meter >= 50 ? T('hintSpecial') : now - B.rT0 < 8000 && B.n <= 3 ? T('padHint') : '') : B.mech === 'hold' ? (B.holding ? T('hintHolding') : T('hintHold')) : B.mech === 'double' ? T('hintDouble') : B.mech === 'spot' ? T('hintSpot') : B.mech === 'reverse' ? T('hintRev') : B.mech === 'count' ? T('hintCount') : (gm ? T('hintGhost', { ms: gm }) : (B.holding ? T('hintBet') : T('hintWait'))); if (hint) { var hw = ctx.measureText(hint).width; if (hw > W - 24) ctx.font = '800 ' + Math.round(Math.min(W, H) * .05 * (W - 24) / hw) + 'px ' + FF(); var hy = B.fight ? GY + SC * 4.5 : H * .86; ctx.strokeText(hint, W / 2, hy); ctx.fillText(hint, W / 2, hy); } }
+    else if (st === 'wait' || st === 'ready') { ctx.fillStyle = 'rgba(255,255,255,.9)'; ctx.font = '800 ' + Math.round(Math.min(W, H) * .05) + 'px ' + FF(); var hint = B.fight ? (B.state === 'count' ? T('hintWait') : B.meter >= 100 ? T('meterFull') : B.meter >= 50 ? T('hintSpecial') : now - B.rT0 < 8000 && B.n <= 3 ? T('padHint') : '') : B.mech === 'hold' ? (B.holding ? T('hintHolding') : T('hintHold')) : B.mech === 'double' ? T('hintDouble') : B.mech === 'spot' ? T('hintSpot') : B.mech === 'reverse' ? T('hintRev') : B.mech === 'count' ? T('hintCount') : (gm ? T('hintGhost', { ms: gm }) : (B.holding ? T('hintBet') : T('hintWait'))); if (hint) { var hw = ctx.measureText(hint).width; if (hw > W - 24) ctx.font = '800 ' + Math.round(Math.min(W, H) * .05 * (W - 24) / hw) + 'px ' + FF(); var hy = B.fight ? Math.max(104, Math.round(H * .13)) : H * .86; ctx.strokeText(hint, W / 2, hy); ctx.fillText(hint, W / 2, hy); } }
     ctx.textAlign = 'left';
     if (B.flash > 0) { ctx.fillStyle = 'rgba(' + B.flashCol + ',' + (B.flash * .55) + ')'; ctx.fillRect(0, 0, W, H); B.flash -= .08 * dt; }
   }
   function drawActor(name, x, y, sc, flip, swap, a){
     var sz = spriteSize(name), w = sz.w * sc, cx = x + w / 2, im = a.key && typeof ASSETS !== 'undefined' ? ASSETS.sprite(a.key, a.pose) : null;
     var tx = cx + (a.dx || 0), ih = sc * 16, iw = im ? im.width * ih / im.height : 0;
-    if (im) tx = Math.max(6 + iw / 2, Math.min(W - 6 - iw / 2, tx));
+    if (im) tx = Math.max(6 + iw / 2, Math.min(W - 6 - iw / 2, tx)); else if (B && B.fight) tx = Math.max(4 + w / 2, Math.min(W - 4 - w / 2, tx));
     ctx.save(); ctx.translate(tx, y + (a.dy || 0)); ctx.rotate(a.rot || 0); ctx.scale((a.sx || 1) * (a.mirror ? -1 : 1), a.sy || 1);
     if (im) { var src = swap && swap.k === '#fff' ? tintImg(im, '#fff') : im; ctx.drawImage(src, -iw / 2, -ih, iw, ih); }
     else drawSprite(ctx, name, -w / 2, 0, sc, flip, swap);

diff --git a/public/preview/config.js b/public/preview/config.js
@@ -1,1 +1,1 @@
-var CONFIG = {"analyticsUrl":"https://iyabxhznvcmgbpjzzyta.supabase.co","analyticsKey":"eyJhbGciOiJIUzI1NiIsInR5cCI6IkpXVCJ9.eyJpc3MiOiJzdXBhYmFzZSIsInJlZiI6Iml5YWJ4aHpudmNtZ2Jwanp6eXRhIiwicm9sZSI6ImFub24iLCJpYXQiOjE3NjYxMjc0NDUsImV4cCI6MjA4MTcwMzQ0NX0.nvWnfif5VzxEZCpEwCgSeJrCLGzbTSzFFzeMAny6eUk","portal":"","version":"3b66ccf","lang":"","img":["s/bangnhi-attack","s/bangnhi-hurt","s/bangnhi-idle","s/bangvuong-attack","s/bangvuong-hurt","s/bangvuong-idle","s/canhcut-attack","s/canhcut-hurt","s/canhcut-idle","s/cao-attack","s/cao-hurt","s/cao-idle","s/gabip-idle","s/ganuong-attack","s/ganuong-hurt","s/ganuong-idle","s/hoalong-attack","s/hoalong-hurt","s/hoalong-idle","s/hoayen-attack","s/hoayen-hurt","s/hoayen-idle","s/khilua-attack","s/khilua-hurt","s/khilua-idle","s/linhco-attack","s/linhco-hurt","s/linhco-idle","s/linhdem-attack","s/linhdem-hurt","s/linhdem-idle","s/lytruong-attack","s/lytruong-hurt","s/lytruong-idle","s/nguoituyet-attack","s/nguoituyet-hurt","s/nguoituyet-idle","s/rua-attack","s/rua-hurt","s/rua-idle","s/thachlao-attack","s/thachlao-hurt","s/thachlao-idle","s/thienbinh-attack","s/thienbinh-hurt","s/thienbinh-idle","s/tibup-attack","s/tibup-hurt","s/tibup-idle","s/tiennu-attack","s/tiennu-hurt","s/tiennu-idle","s/traului-attack","s/traului-hurt","s/traului-idle","s/vitgia-attack","s/vitgia-hurt","s/vitgia-idle","p/bangnhi","p/bangvuong","p/banoi","p/canhcut","p/cao","p/gabip","p/ganuong","p/hoalong","p/hoayen","p/khilua","p/linhco","p/linhdem","p/lytruong","p/nguoituyet","p/rua","p/thachlao","p/thienbinh","p/tibup","p/tiennu","p/traului","p/vitgia","bg/chodem","bg/chodem2","bg/chodem3","bg/congtroi","bg/congtroi2","bg/congtroi3","bg/daolua","bg/daolua2","bg/daolua3","bg/langtre","bg/langtre2","bg/langtre3","bg/pro-banoi","bg/pro-rua","bg/songbang","bg/songbang2","bg/songbang3"],"imgBase":"../img/"};
+var CONFIG = {"analyticsUrl":"https://iyabxhznvcmgbpjzzyta.supabase.co","analyticsKey":"eyJhbGciOiJIUzI1NiIsInR5cCI6IkpXVCJ9.eyJpc3MiOiJzdXBhYmFzZSIsInJlZiI6Iml5YWJ4aHpudmNtZ2Jwanp6eXRhIiwicm9sZSI6ImFub24iLCJpYXQiOjE3NjYxMjc0NDUsImV4cCI6MjA4MTcwMzQ0NX0.nvWnfif5VzxEZCpEwCgSeJrCLGzbTSzFFzeMAny6eUk","portal":"","version":"6af3760","lang":"","img":["s/bangnhi-attack","s/bangnhi-hurt","s/bangnhi-idle","s/bangvuong-attack","s/bangvuong-hurt","s/bangvuong-idle","s/canhcut-attack","s/canhcut-hurt","s/canhcut-idle","s/cao-attack","s/cao-hurt","s/cao-idle","s/gabip-idle","s/ganuong-attack","s/ganuong-hurt","s/ganuong-idle","s/hoalong-attack","s/hoalong-hurt","s/hoalong-idle","s/hoayen-attack","s/hoayen-hurt","s/hoayen-idle","s/khilua-attack","s/khilua-hurt","s/khilua-idle","s/linhco-attack","s/linhco-hurt","s/linhco-idle","s/linhdem-attack","s/linhdem-hurt","s/linhdem-idle","s/lytruong-attack","s/lytruong-hurt","s/lytruong-idle","s/nguoituyet-attack","s/nguoituyet-hurt","s/nguoituyet-idle","s/rua-attack","s/rua-hurt","s/rua-idle","s/thachlao-attack","s/thachlao-hurt","s/thachlao-idle","s/thienbinh-attack","s/thienbinh-hurt","s/thienbinh-idle","s/tibup-attack","s/tibup-hurt","s/tibup-idle","s/tiennu-attack","s/tiennu-hurt","s/tiennu-idle","s/traului-attack","s/traului-hurt","s/traului-idle","s/vitgia-attack","s/vitgia-hurt","s/vitgia-idle","p/bangnhi","p/bangvuong","p/banoi","p/canhcut","p/cao","p/gabip","p/ganuong","p/hoalong","p/hoayen","p/khilua","p/linhco","p/linhdem","p/lytruong","p/nguoituyet","p/rua","p/thachlao","p/thienbinh","p/tibup","p/tiennu","p/traului","p/vitgia","bg/chodem","bg/chodem2","bg/chodem3","bg/congtroi","bg/congtroi2","bg/congtroi3","bg/daolua","bg/daolua2","bg/daolua3","bg/langtre","bg/langtre2","bg/langtre3","bg/pro-banoi","bg/pro-rua","bg/songbang","bg/songbang2","bg/songbang3"],"imgBase":"../img/"};

diff --git a/public/config.js b/public/config.js
@@ -1,1 +1,1 @@
-var CONFIG = {"analyticsUrl":"https://iyabxhznvcmgbpjzzyta.supabase.co","analyticsKey":"eyJhbGciOiJIUzI1NiIsInR5cCI6IkpXVCJ9.eyJpc3MiOiJzdXBhYmFzZSIsInJlZiI6Iml5YWJ4aHpudmNtZ2Jwanp6eXRhIiwicm9sZSI6ImFub24iLCJpYXQiOjE3NjYxMjc0NDUsImV4cCI6MjA4MTcwMzQ0NX0.nvWnfif5VzxEZCpEwCgSeJrCLGzbTSzFFzeMAny6eUk","portal":"","version":"3b66ccf","lang":"","img":[],"imgBase":"img/"};
+var CONFIG = {"analyticsUrl":"https://iyabxhznvcmgbpjzzyta.supabase.co","analyticsKey":"eyJhbGciOiJIUzI1NiIsInR5cCI6IkpXVCJ9.eyJpc3MiOiJzdXBhYmFzZSIsInJlZiI6Iml5YWJ4aHpudmNtZ2Jwanp6eXRhIiwicm9sZSI6ImFub24iLCJpYXQiOjE3NjYxMjc0NDUsImV4cCI6MjA4MTcwMzQ0NX0.nvWnfif5VzxEZCpEwCgSeJrCLGzbTSzFFzeMAny6eUk","portal":"","version":"6af3760","lang":"","img":[],"imgBase":"img/"};
